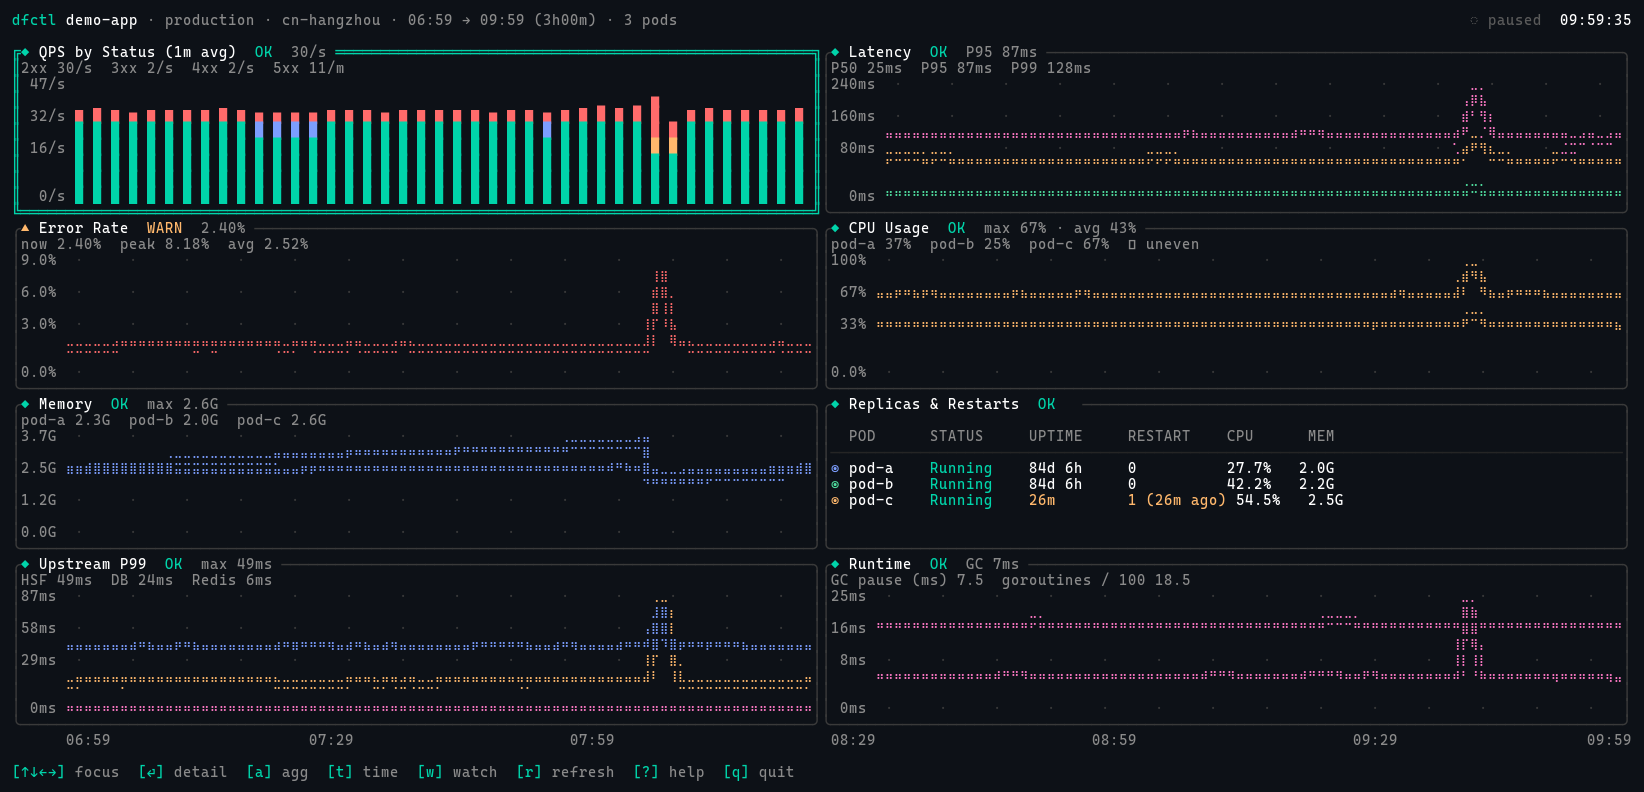
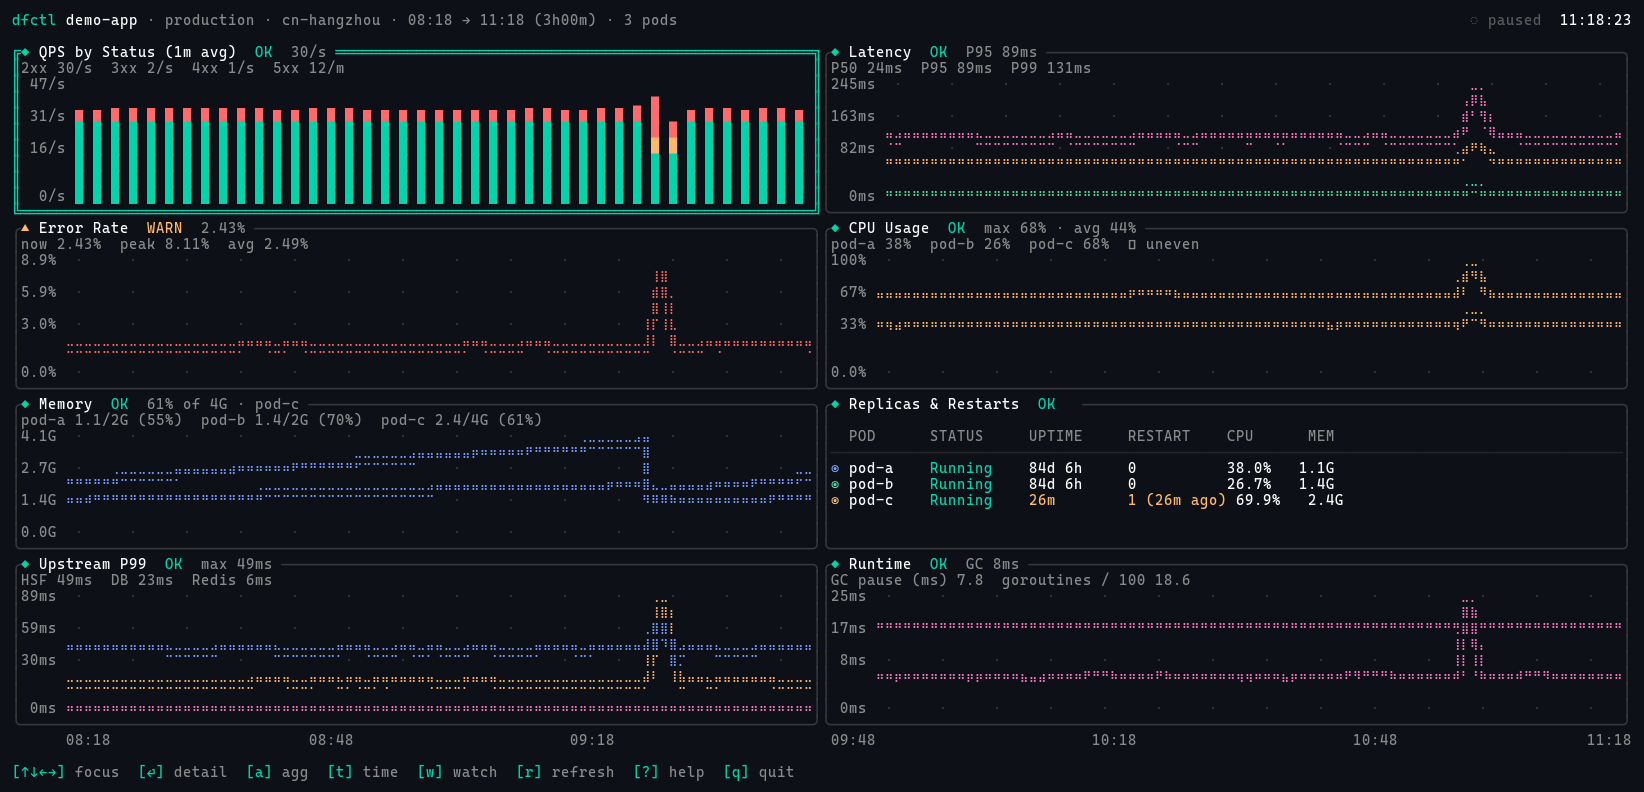
phase-10: realistic pod specs + intuitive Memory + fix key double-tap
Three user-reported issues:

1. **Keys felt unresponsive — Enter/arrows needed two taps.**
   crossterm now ships Press / Release / Repeat events when the host
   terminal speaks kitty keyboard protocol (Termius, WezTerm, modern
   iTerm). We were processing every event, so each key fired the handler
   twice. Fix: filter to KeyEventKind::Press only.

2. **Mock memory data unrealistic.**
   Platform standard is 1C2G default with optional 2C4G upgrade. The old
   mock showed 2.0/2.2/2.5 G then ramped to 3+ G — physically impossible
   on a 2G pod. Now:
     - pod-a / pod-b are 1C2G, usage ~1.1 GiB and ~1.4 GiB
     - pod-c is 2C4G (upgraded), usage ~2.4 GiB, ramps to 3.7 GiB
       (~93% of 4 G limit) then OOMKilled → restart drops to 1.8 GiB
   PodInfo gains `mem_limit_bytes` and `cpu_limit` (both Optional, default
   to 2 GiB / 1 vCPU so older servers keep working).

3. **Memory panel headline was ambiguous ("max 2.6G — of what?").**
   Now reads:
     - Title preview: `61% of 4G · pod-c`
     - Subtitle: `pod-a 1.1/2G (55%)  pod-b 1.4/2G (70%)  pod-c 2.4/4G (61%)`
   Headroom is visible without doing math. Single-metric detail uses the
   same numbers; Replicas table MEM column shows the actual usage (1.1G,
   1.4G, 2.4G) rather than fictional 2-2.5G that exceeded the 1C2G limit.

diff --git a/src/commands/monitor/widgets/panel.rs b/src/commands/monitor/widgets/panel.rs
@@ -48,7 +48,7 @@ impl<'a> Widget for MetricPanel<'a> {
         };
 
         // ── Title ──
-        let title_spans = build_title(self.metric, &self.data, status, self.focused, self.agg_mode);
+        let title_spans = build_title(self.metric, &self.data, self.pods, status, self.focused, self.agg_mode);
         let mut border_style = Style::default().fg(border_color.to_color());
         // Only ALERT borders are bolded — WARN signals are carried by the title
         // badge and ▲ glyph, not by the frame.
@@ -68,7 +68,7 @@ impl<'a> Widget for MetricPanel<'a> {
         }
 
         // subtitle
-        let subtitle = build_subtitle(self.metric, &self.data);
+        let subtitle = build_subtitle(self.metric, &self.data, self.pods);
         if !subtitle.is_empty() && inner.height >= 4 {
             Paragraph::new(Line::from(Span::styled(
                 subtitle,
@@ -94,6 +94,7 @@ impl<'a> Widget for MetricPanel<'a> {
 fn build_title(
     metric: MetricKind,
     data: &MetricData,
+    pods: &[PodInfo],
     status: HealthStatus,
     _focused: bool,
     agg_mode: AggMode,
@@ -142,7 +143,7 @@ fn build_title(
             .add_modifier(Modifier::BOLD),
     ));
     spans.push(Span::raw("  "));
-    let preview = build_preview(metric, data);
+    let preview = build_preview(metric, data, pods);
     if !preview.is_empty() {
         spans.push(Span::styled(
             preview,
@@ -153,7 +154,7 @@ fn build_title(
     spans
 }
 
-fn build_preview(metric: MetricKind, data: &MetricData) -> String {
+fn build_preview(metric: MetricKind, data: &MetricData, pods: &[PodInfo]) -> String {
     match metric {
         MetricKind::Qps => {
             let total_2xx: f64 = data
@@ -201,13 +202,27 @@ fn build_preview(metric: MetricKind, data: &MetricData) -> String {
             format!("max {:.0}% · avg {:.0}%", max_now, avg_now)
         }
         MetricKind::Memory => {
-            let max_now = data
-                .series
-                .iter()
-                .find(|s| s.label == "max")
-                .map(|s| s.current())
-                .unwrap_or(0.0);
-            format!("max {:.1}G", max_now)
+            // Memory headline: the hottest pod's usage vs its limit, in %.
+            // Bare "max 2.6G" was ambiguous — 2.6 of what? Now reads
+            // "65% of 4G · pod-c" so users see headroom at a glance.
+            let max_pod = pods.iter().max_by(|a, b| a.mem_bytes.cmp(&b.mem_bytes));
+            if let Some(p) = max_pod {
+                let used_gb = p.mem_bytes as f64 / (1024.0 * 1024.0 * 1024.0);
+                let limit_gb = p
+                    .mem_limit_bytes
+                    .map(|b| b as f64 / (1024.0 * 1024.0 * 1024.0))
+                    .unwrap_or(used_gb.max(1.0));
+                let pct = (used_gb / limit_gb * 100.0).min(999.0);
+                format!("{:.0}% of {:.0}G · {}", pct, limit_gb, p.name)
+            } else {
+                let max_now = data
+                    .series
+                    .iter()
+                    .find(|s| s.label == "max")
+                    .map(|s| s.current())
+                    .unwrap_or(0.0);
+                format!("max {:.1}G", max_now)
+            }
         }
         MetricKind::Replicas => String::new(),
         MetricKind::Runtime => {
@@ -217,21 +232,36 @@ fn build_preview(metric: MetricKind, data: &MetricData) -> String {
     }
 }
 
-fn build_subtitle(metric: MetricKind, data: &MetricData) -> String {
+fn build_subtitle(metric: MetricKind, data: &MetricData, pods: &[PodInfo]) -> String {
     match metric {
-        MetricKind::Cpu | MetricKind::Memory => {
+        MetricKind::Cpu => {
             let max_now = data.series.iter().find(|s| s.label == "max").map(|s| s.current()).unwrap_or(0.0);
             let avg_now = data.series.iter().find(|s| s.label == "avg").map(|s| s.current()).unwrap_or(0.0);
-            let pods: Vec<String> = data.series
+            let lines: Vec<String> = data.series
                 .iter()
                 .filter(|s| matches!(s.kind, SeriesKind::Pod(_)))
                 .map(|s| format!("{} {}", s.label, format_short_value(s.current(), &data.unit)))
                 .collect();
-            // 20% spread is the on-call rule of thumb — if one pod is >20pp above the
-            // mean, the aggregate hides interesting per-pod behaviour.
             let uneven = (max_now - avg_now).abs() > 20.0;
             let warn = if uneven { "  ⚠ uneven" } else { "" };
-            format!("{}{}", pods.join("  "), warn)
+            format!("{}{}", lines.join("  "), warn)
+        }
+        MetricKind::Memory => {
+            // Show per-pod "used/limit (pct)" so the user sees headroom at a
+            // glance, not bare GB numbers that ignore the pod's spec.
+            let lines: Vec<String> = pods
+                .iter()
+                .map(|p| {
+                    let used_gb = p.mem_bytes as f64 / (1024.0 * 1024.0 * 1024.0);
+                    let limit_gb = p
+                        .mem_limit_bytes
+                        .map(|b| b as f64 / (1024.0 * 1024.0 * 1024.0))
+                        .unwrap_or(2.0);
+                    let pct = (used_gb / limit_gb * 100.0).min(999.0);
+                    format!("{} {:.1}/{:.0}G ({:.0}%)", p.name, used_gb, limit_gb, pct)
+                })
+                .collect();
+            lines.join("  ")
         }
         MetricKind::Latency => {
             let p50 = data.series.iter().find(|s| matches!(s.kind, SeriesKind::Percentile(50))).map(|s| s.current()).unwrap_or(0.0);

diff --git a/src/commands/monitor/data/mock.rs b/src/commands/monitor/data/mock.rs
@@ -105,11 +105,24 @@ fn generate(q: &MonitorQuery, seed: u64) -> MonitorResponse {
 }
 
 fn generate_pods(names: &[String], rng: &mut ChaCha8Rng, now: DateTime<Utc>) -> Vec<PodInfo> {
+    // Realistic resource shape:
+    //   pod-a: 1C2G (entry tier, default platform spec)
+    //   pod-b: 1C2G
+    //   pod-c: 2C4G (upgraded, also the unhealthy one with a recent restart)
+    // Memory usage stays well inside the limit on healthy pods, with pod-c
+    // pushing closer to limit because of the load that triggered the restart.
+    let one_gib: f64 = 1024.0 * 1024.0 * 1024.0;
+    let specs = [
+        // (cpu_limit, mem_limit_gb, cpu_usage_pct, mem_usage_gb)
+        (1.0, 2.0, 38.0, 1.10),  // pod-a — 1C2G, idle-ish (55% of mem limit)
+        (1.0, 2.0, 27.0, 1.40),  // pod-b — 1C2G, light load (70% of mem limit)
+        (2.0, 4.0, 68.0, 2.45),  // pod-c — 2C4G, hot pod (61% of mem limit, restart recovering)
+    ];
     names
         .iter()
         .enumerate()
         .map(|(i, n)| {
-            // pod-c is the unhealthy one (used by the rest of the generators too)
+            let (cpu_lim, mem_lim_gb, cpu_pct, mem_gb) = specs[i.min(specs.len() - 1)];
             let restarts = if i == 2 { 1 } else { 0 };
             let last_restart = if restarts > 0 {
                 Some(now - ChronoDuration::minutes(26))
@@ -127,8 +140,10 @@ fn generate_pods(names: &[String], rng: &mut ChaCha8Rng, now: DateTime<Utc>) -> 
                 uptime_seconds: uptime,
                 restarts,
                 last_restart_at: last_restart,
-                cpu_pct: 28.0 + (i as f64) * 13.0 + rng.gen_range(-2.0..2.0),
-                mem_bytes: ((2.0 + (i as f64) * 0.25) * 1024.0 * 1024.0 * 1024.0) as u64,
+                cpu_pct: cpu_pct + rng.gen_range(-2.0..2.0),
+                mem_bytes: (mem_gb * one_gib) as u64,
+                mem_limit_bytes: Some((mem_lim_gb * one_gib) as u64),
+                cpu_limit: Some(cpu_lim),
             }
         })
         .collect()
@@ -423,19 +438,24 @@ fn generate_memory(
     rng: &mut ChaCha8Rng,
 ) -> MetricData {
     let n = times.len();
-    let bases = [2.3, 2.0, 2.5];
+    // GiB usage matching the pod limits in generate_pods:
+    //   pod-a / pod-b are 1C2G → idle around 1.1–1.4 GiB (well under 2G limit)
+    //   pod-c is 2C4G → around 2.1–2.6 GiB, climbs near 3.5 GiB before the
+    //   OOM restart, then settles back to ~1.8 GiB (cold cache after restart).
+    let bases = [1.1_f64, 1.4, 2.2];
     let mut per_pod: Vec<Vec<f64>> = pods
         .iter()
         .enumerate()
-        .map(|(i, _)| smooth_walk(rng, n, bases[i], 0.08, 0.9))
+        .map(|(i, _)| smooth_walk(rng, n, bases[i], 0.04, 0.92))
         .collect();
-    // pod-c grows then drops (after restart at index ~spike_at)
+    // pod-c grows over the window, hits its 4 GiB limit, then OOMKilled →
+    // restart drops it back to ~1.8 GiB and grows slowly.
     let restart_at = (n as f64 * 0.78) as usize;
     for i in 0..restart_at {
-        per_pod[2][i] += (i as f64 / restart_at as f64) * 0.9;
+        per_pod[2][i] += (i as f64 / restart_at as f64) * 1.5; // up to ~3.7 GiB
     }
     for i in restart_at..n {
-        per_pod[2][i] = 1.8 + ((i - restart_at) as f64 * 0.02);
+        per_pod[2][i] = 1.8 + ((i - restart_at) as f64 * 0.015);
     }
 
     let max_curve: Vec<f64> = (0..n)

diff --git a/src/commands/monitor/mod.rs b/src/commands/monitor/mod.rs
@@ -195,6 +195,14 @@ async fn main_loop<B: ratatui::backend::Backend>(
             _ = second_tick.tick() => {}
             evt = read_event() => {
                 if let Some(CtEvent::Key(k)) = evt {
+                    // crossterm sends Press, Release and Repeat events when the terminal
+                    // has kitty keyboard protocol enabled (Termius, WezTerm, recent
+                    // iTerm builds). Without this filter every keypress was processed
+                    // twice — once on Press, once on Release — making arrows and Enter
+                    // feel like they needed a double tap.
+                    if !matches!(k.kind, crossterm::event::KeyEventKind::Press) {
+                        continue;
+                    }
                     let tier = LayoutTier::from_size(st.terminal_size.0, st.terminal_size.1, &st.args);
                     let action = input::handle_key(k, &mut st, tier);
                     match action {

diff --git a/src/commands/monitor/data/model.rs b/src/commands/monitor/data/model.rs
@@ -29,6 +29,13 @@ pub struct PodInfo {
     pub last_restart_at: Option<DateTime<Utc>>,
     pub cpu_pct: f64,
     pub mem_bytes: u64,
+    /// Pod's memory limit in bytes (typically 2G for 1C2G, 4G for 2C4G).
+    /// Used by Memory panel to show `% of limit`. Defaults to 2 GiB if absent.
+    #[serde(default)]
+    pub mem_limit_bytes: Option<u64>,
+    /// CPU limit in vCPU units (typically 1 for 1C2G, 2 for 2C4G). Optional.
+    #[serde(default)]
+    pub cpu_limit: Option<f64>,
 }
 
 #[derive(Serialize, Deserialize, Clone, Copy, Debug, Eq, PartialEq, Hash)]
